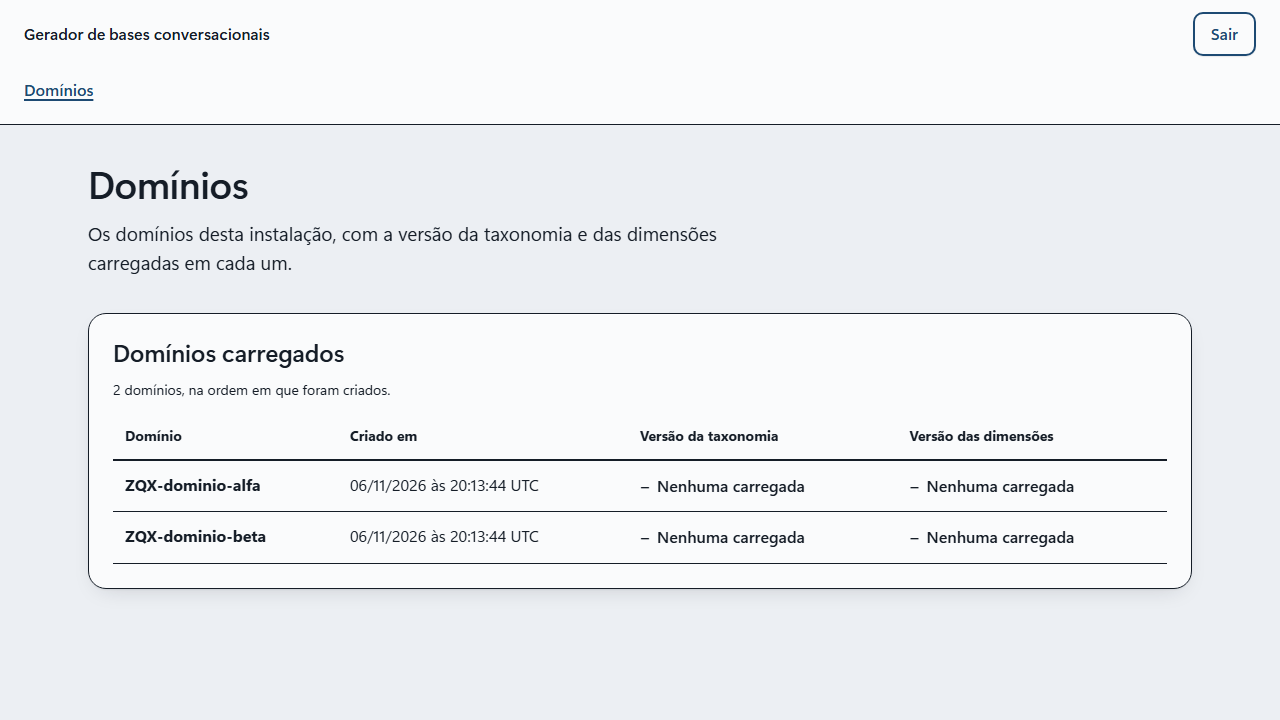
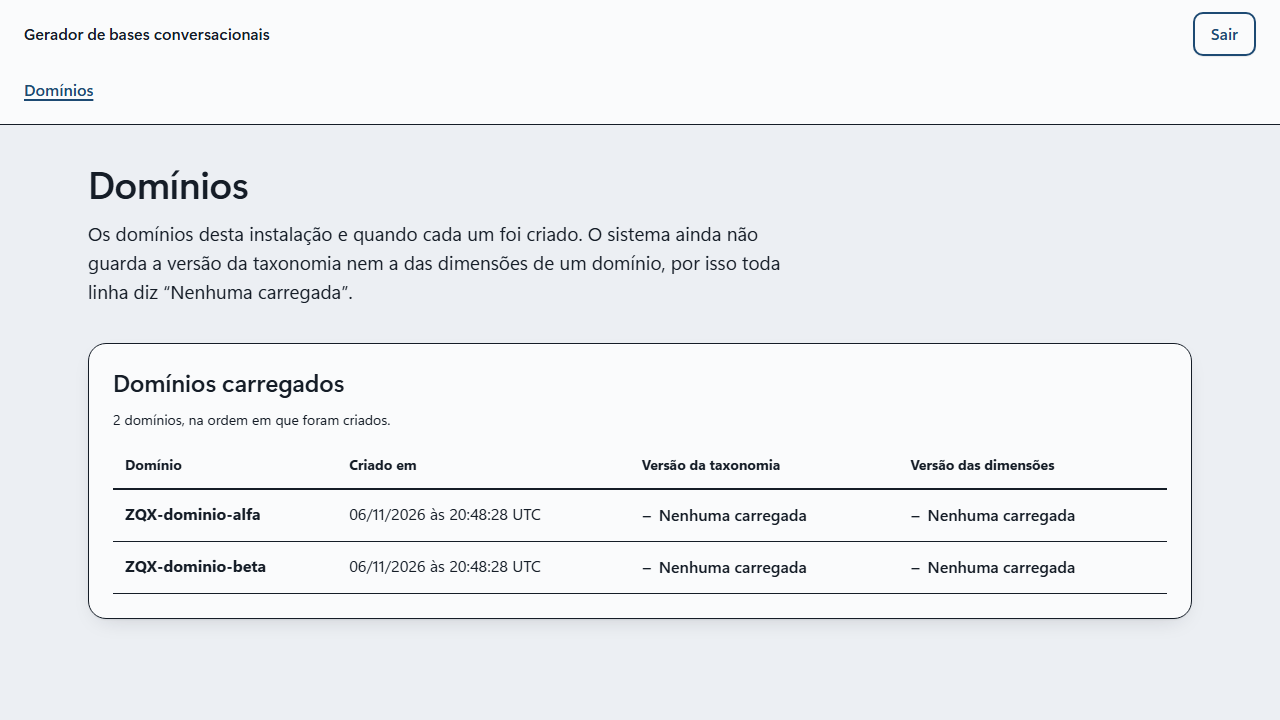
capturas(602): as imagens refeitas com o texto da tela que não promete versão

Changed region(s): [[0.0625, 0.5806, 0.9375, 0.825], [0.0625, 0.3056, 0.5938, 0.4278], [0.0625, 0.4583, 0.3125, 0.55]]

diff --git a/capturas/602/LEIAME.md b/capturas/602/LEIAME.md
@@ -3,10 +3,10 @@
 A tela dos domínios (`/dominios`), com dois domínios e sem nenhum, em claro, escuro, transparência
 reduzida, contraste alto e na largura de celular (390 px). Geradas com a variável SCREEN_CAPTURES
 nos testes de navegador `DomainsScreenTests` (Core.Host.Tests.Browser), na ponta de
-feat/602-605-dominios-e-custodia (c3eb3d76). Nomes e senha são sintéticos (`ZQX-` e `zqx-`). Branch
+feat/602-605-dominios-e-custodia (c3eb3d76, imagens refeitas na ponta da feat/605-telas, depois do ba1402c7). Nomes e senha são sintéticos (`ZQX-` e `zqx-`). Branch
 fora do main.
 
 | Arquivo | Estado |
 |---|---|
-| dominios-{claro,escuro,transparencia-reduzida,contraste-alto,celular}.png | dois domínios, com a versão da taxonomia e das dimensões ditas "Nenhuma carregada", porque o modelo ainda não as guarda |
+| dominios-{claro,escuro,transparencia-reduzida,contraste-alto,celular}.png | dois domínios, com a versão da taxonomia e das dimensões ditas "Nenhuma carregada", e o texto da tela diz que o sistema ainda não guarda essas versões |
 | dominios-nenhum-{claro,escuro,celular}.png | nenhum domínio, com o comando `create-domain` do servidor |
